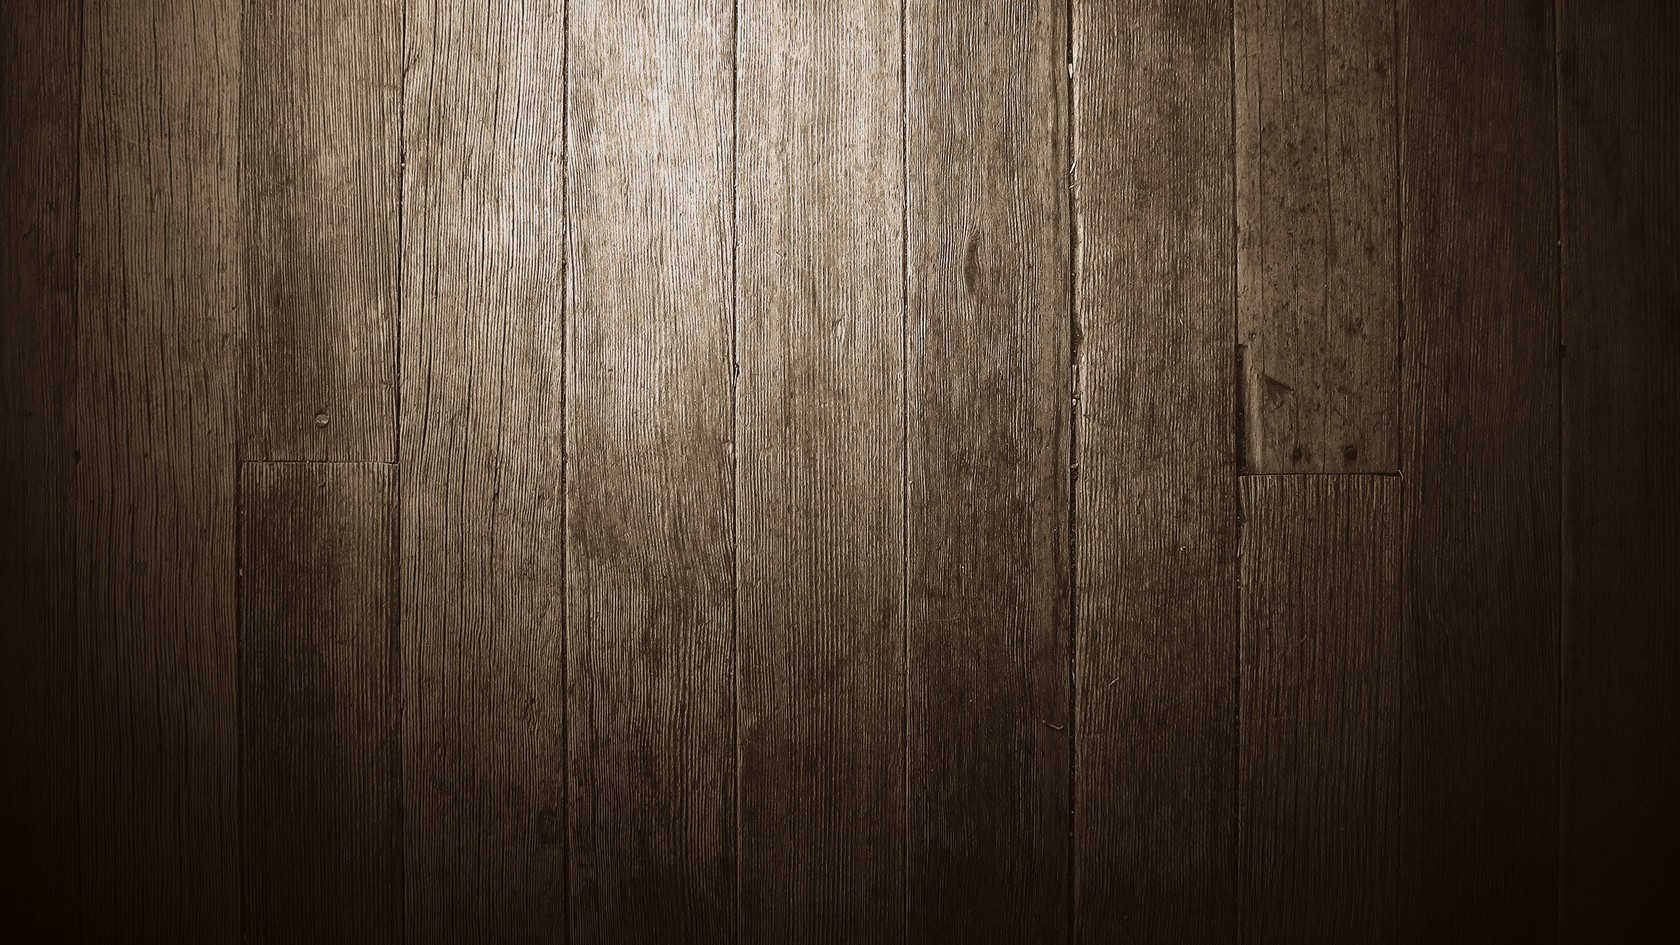
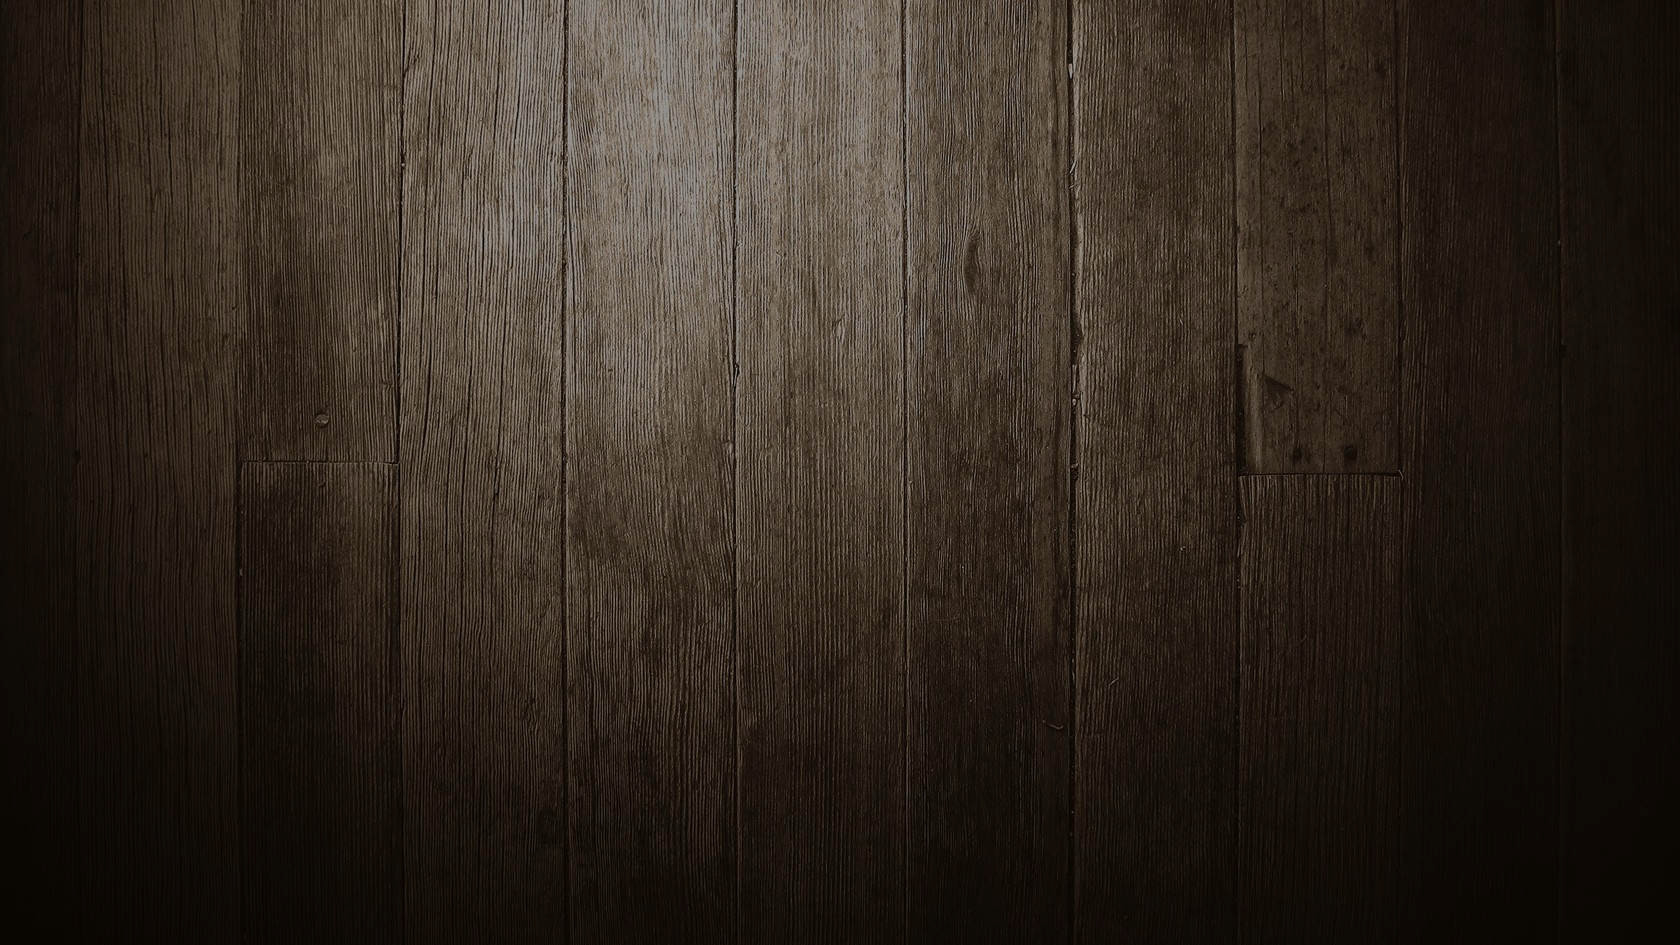
Changed #home background image.

diff --git a/css/style.css b/css/style.css
@@ -76,7 +76,7 @@
 	padding: 50px 0 100px 0;
 	background: url('../img/backgrounds/wood.jpg');
 	background-repeat: no-repeat;
-	background-position: 0 0;
+	background-position: center center;
 	background-attachment: fixed;
 	background-size: cover;
 	background-color: #202020;
@@ -88,7 +88,7 @@
 
 #home #home-content img {
 	margin-top: 50px;
-	width: 50%;
+	width: 65%;
 	opacity: 0.8;
 }
 
@@ -839,8 +839,9 @@
 /*Custom Media Queries*/
 @media(max-width:767px){
 	#home {
-		background-image: none;
+		/*background-image: none;*/
 	}
+
 	#why-header h1 {
 		font-size: 10vw;
 	}
